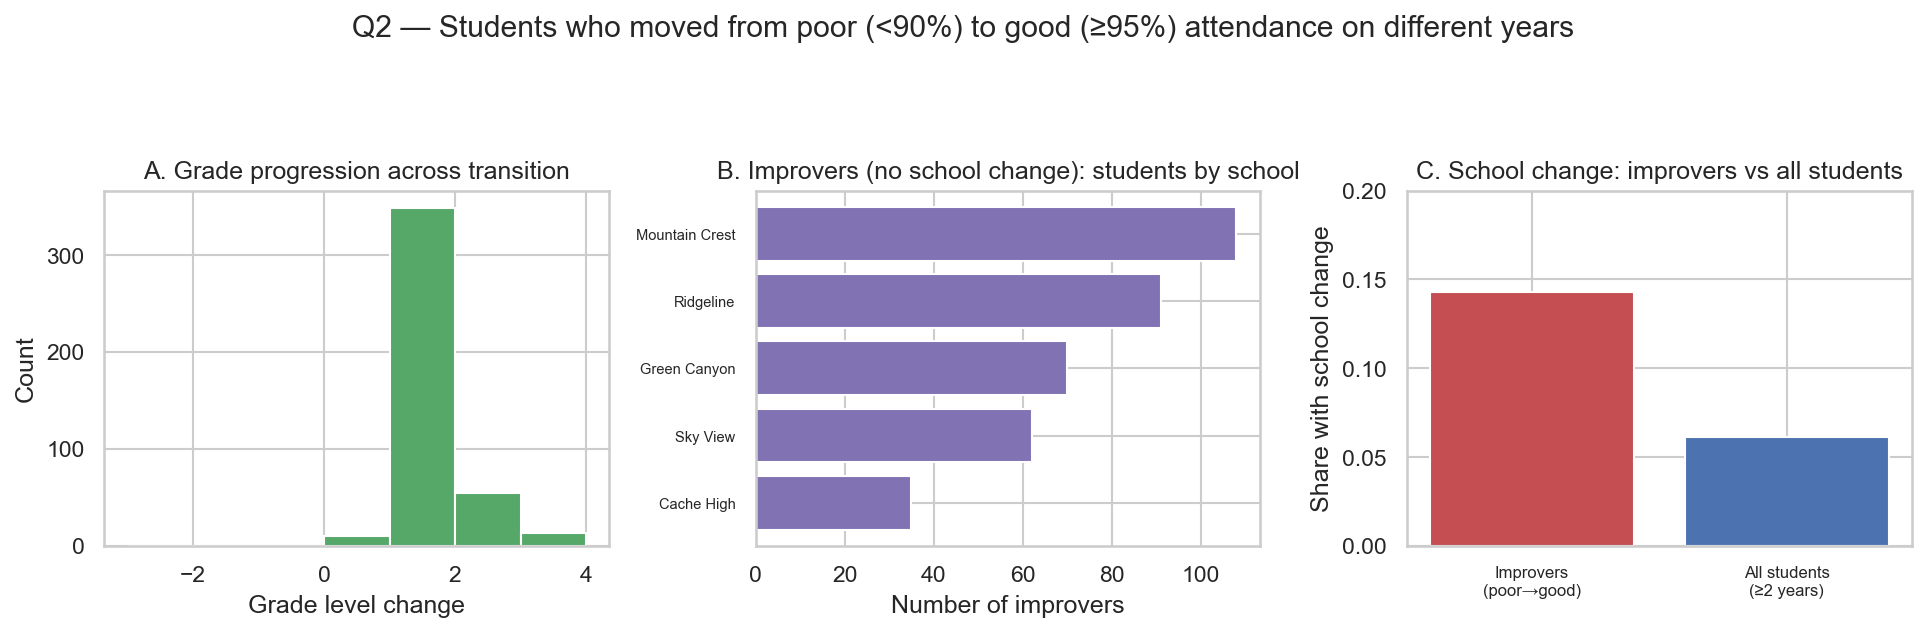
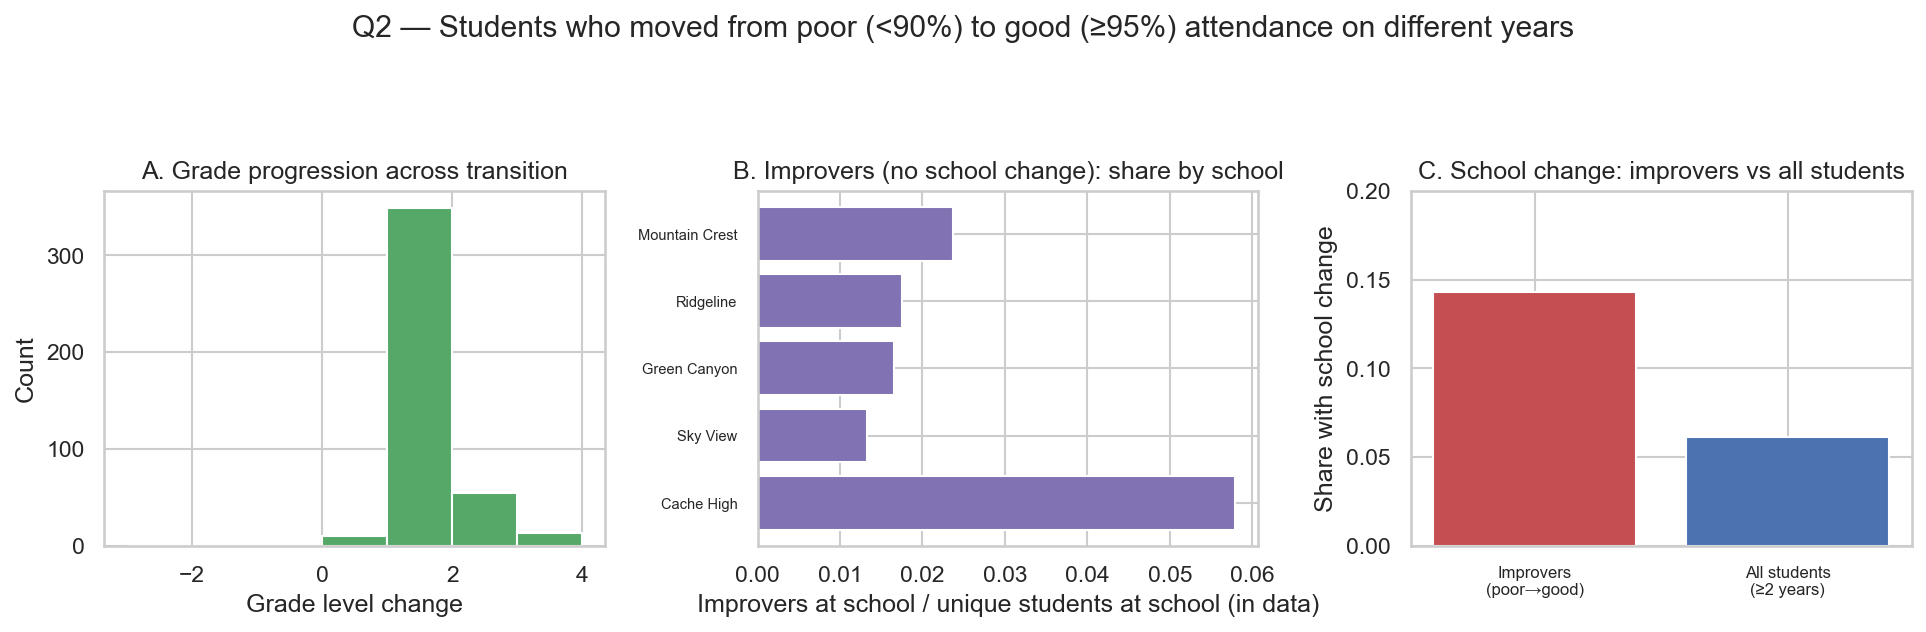
slight changes to Q2

diff --git a/code/08_attendance_eda.py b/code/08_attendance_eda.py
@@ -347,6 +347,17 @@ def chart_q2_transitions(df: pd.DataFrame) -> None:
         all_changed_flags.append(_q2_school_changed_between_rows(sub.iloc[0], sub.iloc[-1]))
     pct_all_changed = 100.0 * float(np.mean(all_changed_flags)) if all_changed_flags else float("nan")
 
+    # Unique students per school (denominator for Q2 panel B ratios)
+    students_per_school = (
+        d.loc[d["current_school"].notna()]
+        .assign(
+            current_school=lambda x: x["current_school"].astype(str).str.strip().replace("", np.nan)
+        )
+        .dropna(subset=["current_school"])
+        .groupby("current_school")["student_number"]
+        .nunique()
+    )
+
     fig, axes = plt.subplots(1, 3, figsize=(13, 4))
 
     # A — Grade progression (was panel B)
@@ -356,7 +367,7 @@ def chart_q2_transitions(df: pd.DataFrame) -> None:
     ax.set_ylabel("Count")
     ax.set_title("A. Grade progression across transition")
 
-    # B — Improvers who did not change school: count by current_school (was panel C)
+    # B — Improvers who did not change school: improvers per school / students at school
     ax = axes[1]
     same_school = tdf.loc[~tdf["school_changed"]].copy()
     same_school = same_school[same_school["current_school"].notna()]
@@ -376,21 +387,35 @@ def chart_q2_transitions(df: pd.DataFrame) -> None:
             ax.set_axis_off()
         else:
             if len(counts) > 20:
-                rest = int(counts.iloc[20:].sum())
                 counts = counts.head(20)
-                if rest > 0:
-                    counts = pd.concat([counts, pd.Series({"Other": rest})])
-            y_pos = np.arange(len(counts))
-            ax.barh(y_pos, counts.values, color="#8172b3")
-            ax.set_yticks(y_pos)
-            labels = [str(s)[:40] + ("…" if len(str(s)) > 40 else "") for s in counts.index]
-            ax.set_yticklabels(labels, fontsize=7)
-            ax.invert_yaxis()
-            ax.set_xlabel("Number of improvers")
+            denom = pd.Series(
+                [students_per_school.get(s, np.nan) for s in counts.index],
+                index=counts.index,
+            )
+            ratio_s = counts / denom
+            ratio_s = ratio_s[(denom > 0) & ratio_s.notna() & np.isfinite(ratio_s)]
+            if ratio_s.empty:
+                ax.text(
+                    0.5,
+                    0.5,
+                    "Could not match schools to enrollment counts",
+                    ha="center",
+                    va="center",
+                    transform=ax.transAxes,
+                )
+                ax.set_axis_off()
+            else:
+                y_pos = np.arange(len(ratio_s))
+                ax.barh(y_pos, ratio_s.values, color="#8172b3")
+                ax.set_yticks(y_pos)
+                labels = [str(s)[:40] + ("…" if len(str(s)) > 40 else "") for s in ratio_s.index]
+                ax.set_yticklabels(labels, fontsize=7)
+                ax.invert_yaxis()
+                ax.set_xlabel("Improvers / unique students at school")
     else:
         ax.text(0.5, 0.5, "No improvers with same school", ha="center", va="center", transform=ax.transAxes)
         ax.set_axis_off()
-    ax.set_title("B. Improvers (no school change): students by school")
+    ax.set_title("B. Improvers: share by school")
 
     # C — School change: improvers vs all (was panel A)
     ax = axes[2]
